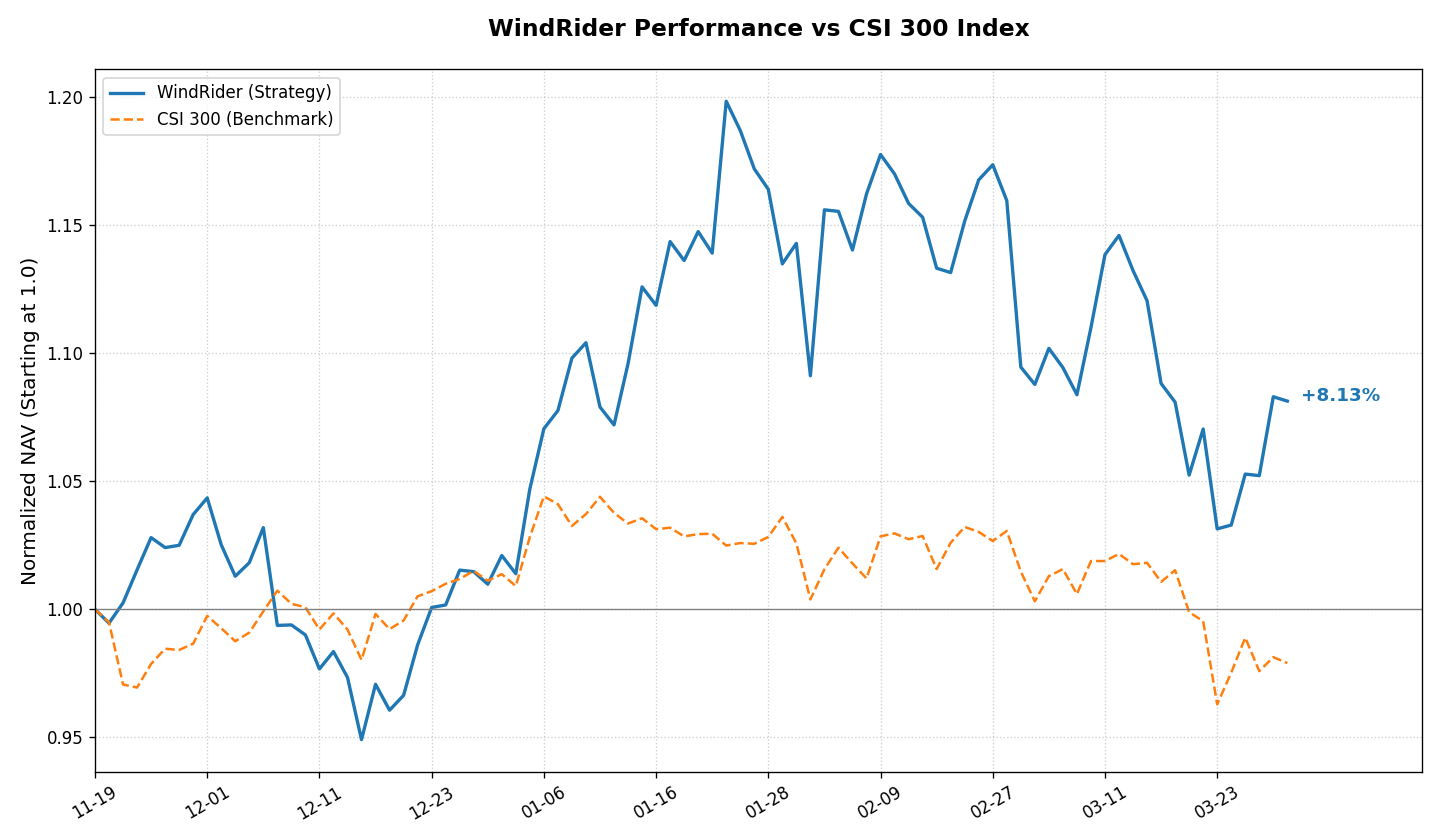
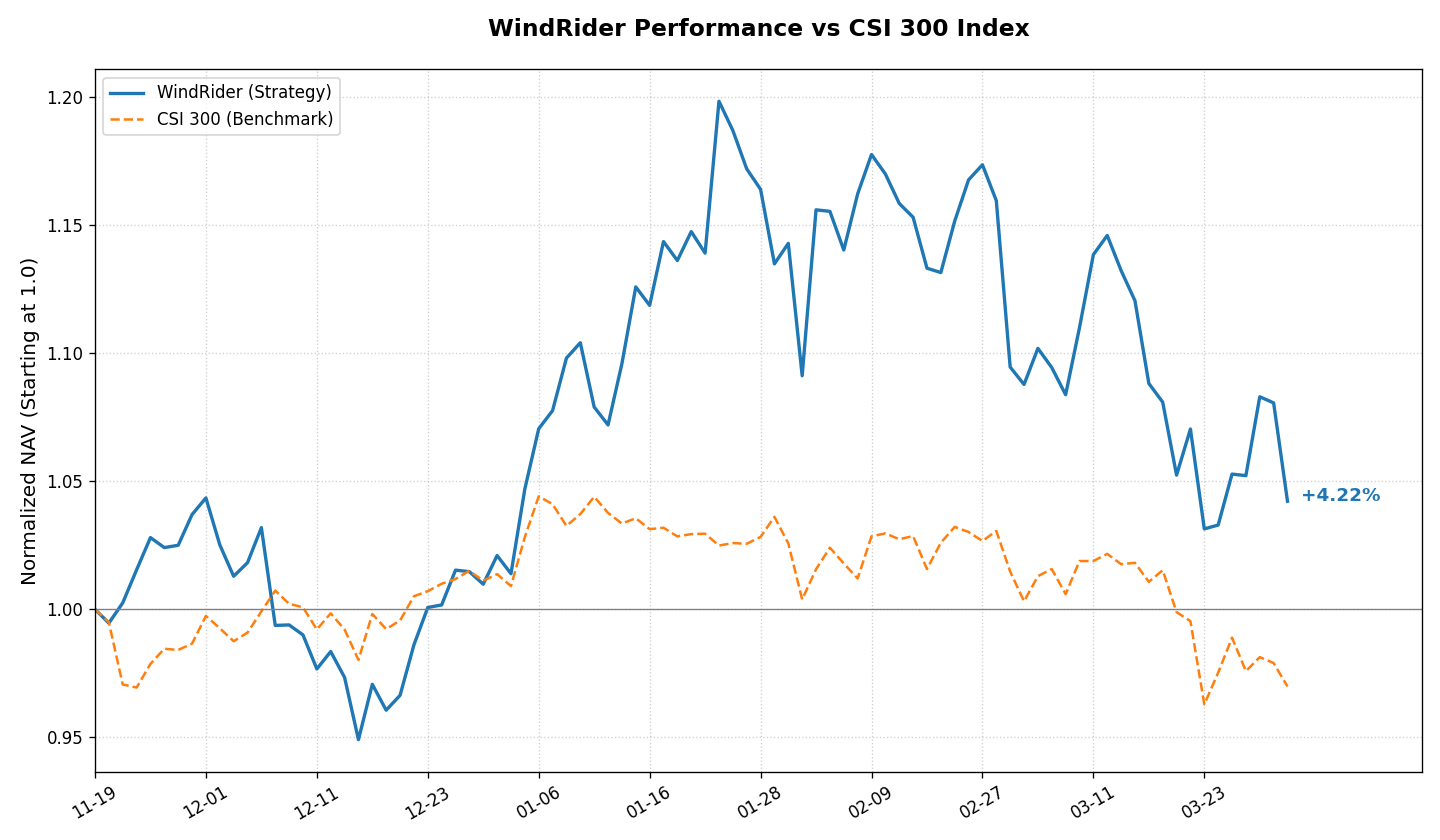
Updated Hugo site content

diff --git a/content/investment/position.md b/content/investment/position.md
@@ -1,8 +1,8 @@
 +++
 title = "如山-股票组合持仓 /// Position"
 summary = "主动管理型股票组合。对标沪深300指数，采用基本面选股策略。"
-date = 2026-03-30T15:12:05+08:00
-lastmod = 2026-03-30T15:12:05+08:00
+date = 2026-03-31T15:12:05+08:00
+lastmod = 2026-03-31T15:12:05+08:00
 draft = false
 description = "如山股票组合持仓"
 +++
@@ -12,29 +12,29 @@ description = "如山股票组合持仓"
 
 ### 风舵股票组合 &nbsp;&nbsp;<span style="color: #E63946; font-weight: bold;">/</span><span style="color: #F1A73E; font-weight: bold;">/</span><span style="color: #000091; font-weight: bold;">/</span>&nbsp;&nbsp; 每日持仓
 WindRider Equity Portfolio <br>
-净值简报 <small>(截至: 2026-03-30)</small>
+净值简报 <small>(截至: 2026-03-31)</small>
 
 |  |  |
 | :--- | :--- |
 | **指数代码：** | WDR.EQ |
 | **成立日期：** | 2025-11-19 |
-| **最新净值：** | 1.0813 |
-| **今日涨跌：** | -0.16% |
+| **最新净值：** | 1.0422 |
+| **今日涨跌：** | -3.55% |
 
 ===========================
 
 | 核心表现 | |
 | :--- | :--- |
-| **累计收益：** | +8.13% |
-| **年化收益：** | +24.33% |
+| **累计收益：** | +4.22% |
+| **年化收益：** | +12.11% |
 | **最大回撤：** | -13.94% |
-| **基准点位：** | 4491.95 (CSI300) |
-| **策略状态：** | 已运行 132 天 |
+| **基准点位：** | 4450.05 (CSI300) |
+| **策略状态：** | 已运行 133 天 |
 
 ### 持仓明细
 | 股票名称 | 成本价 | 现价 | 盈亏 | 占比 |
 | :--- | :--- | :--- | :--- | :--- | :--- |
-| 先导智能 <small>300450</small> | 52.17 | 49.52 | <span style="color:#2A9D8F">-5.07%</span> | 98.08% |
+| 先导智能 <small>300450</small> | 52.17 | 47.70 | <span style="color:#2A9D8F">-8.56%</span> | 98.02% |
 
 <br>
 
